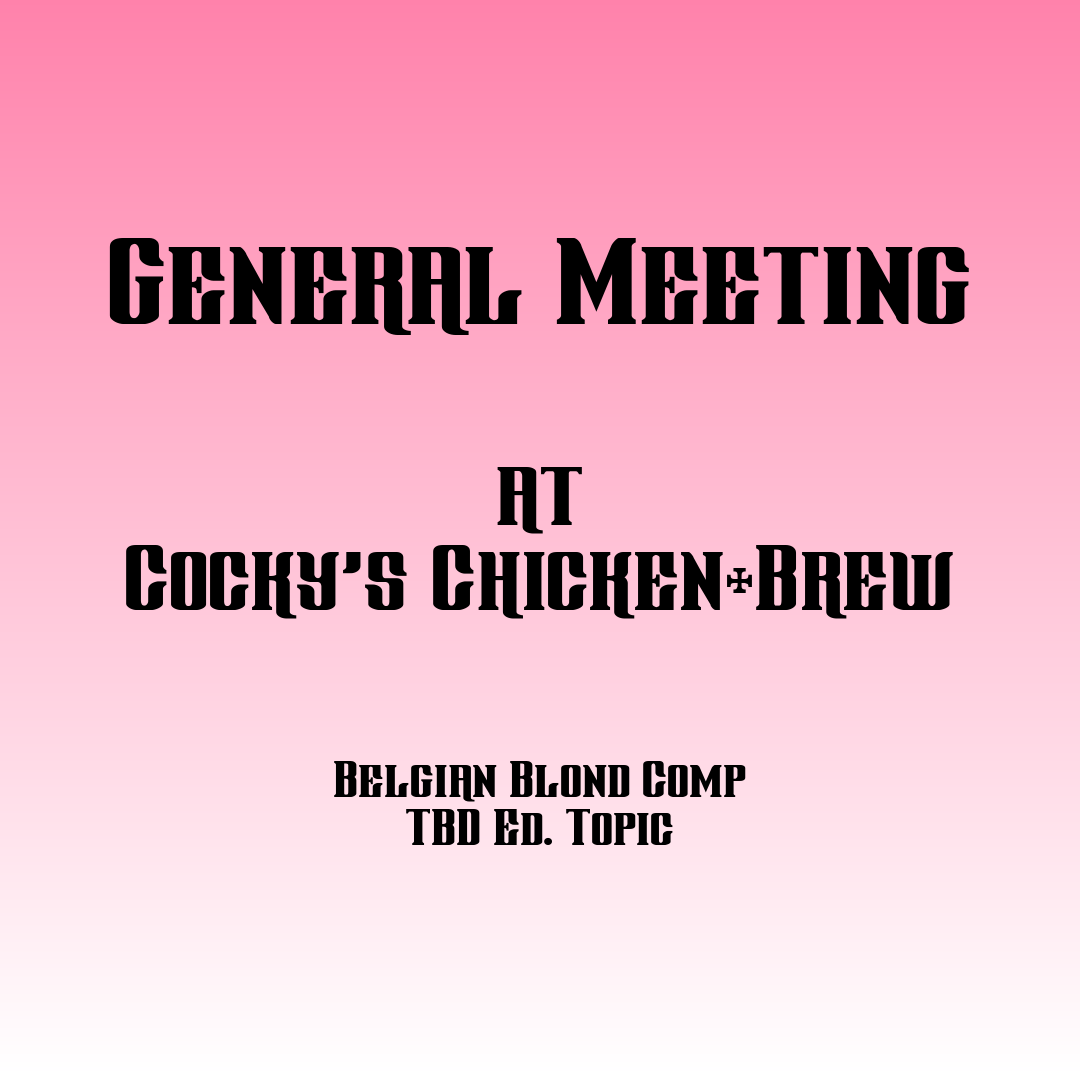
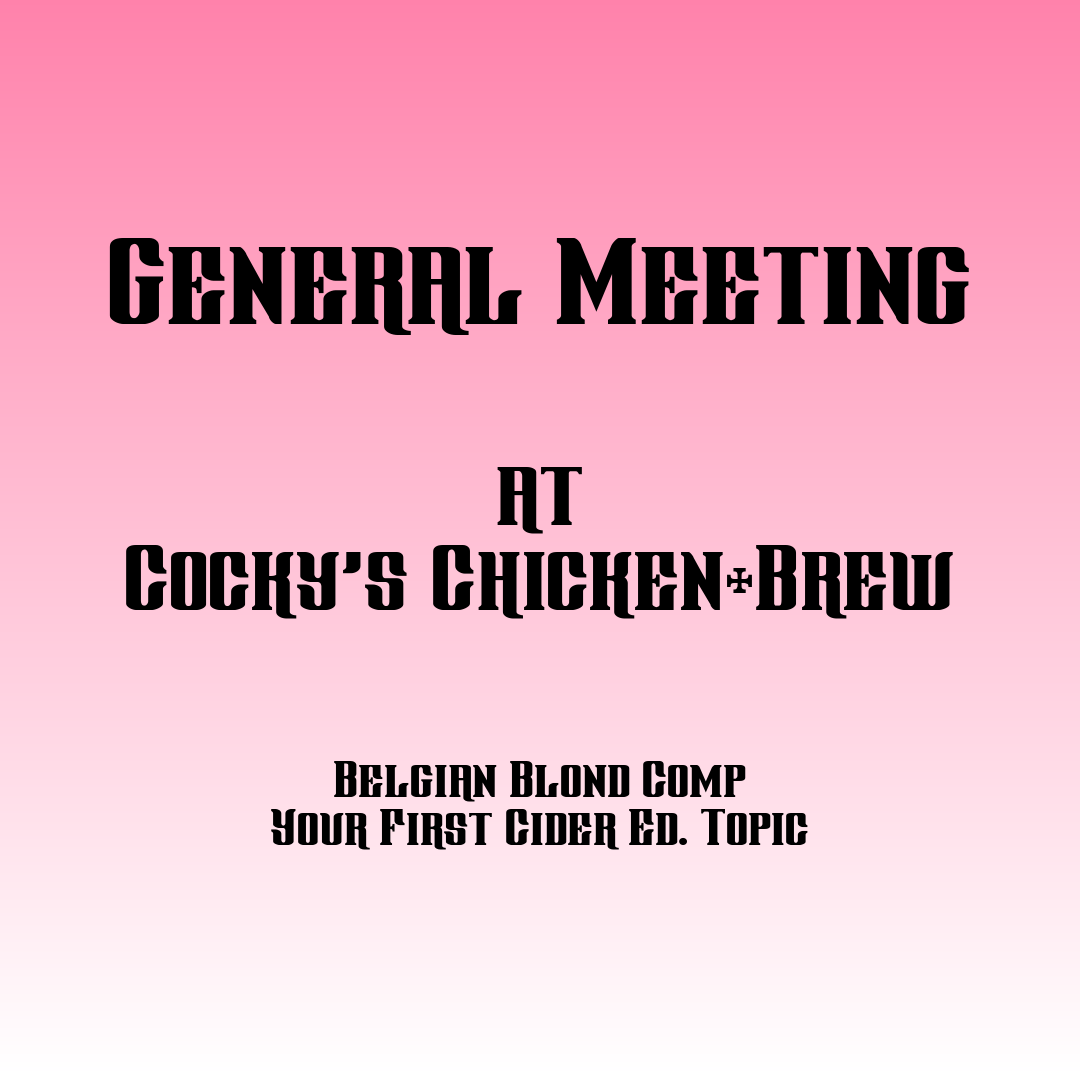
update gauntlets and june mtg

Changed region(s): [[0.2444, 0.7333, 0.7639, 0.7944]]

diff --git a/site/content/events/2025-06-gm/index.md b/site/content/events/2025-06-gm/index.md
@@ -1,6 +1,6 @@
 ---
 title: June General Meeting
-date: 2025-02-14T13:09:13Z
+date: 2025-06-04T12:49:08Z
 startDate: 2025-06-19 18:00:00 -0700 MST
 endDate:  2025-06-19 20:00:00 -0700 MST
 location: Cocky's Chicken+Brew
@@ -13,7 +13,7 @@ General Meeting
 June 19 6pm  
 Cocky's Chicken+Brew  
 Gauntlet: Belgian Blond  
-Ed Topic: TBD  
+Ed Topic: Your First Cider  
   
 Notes:  
   
